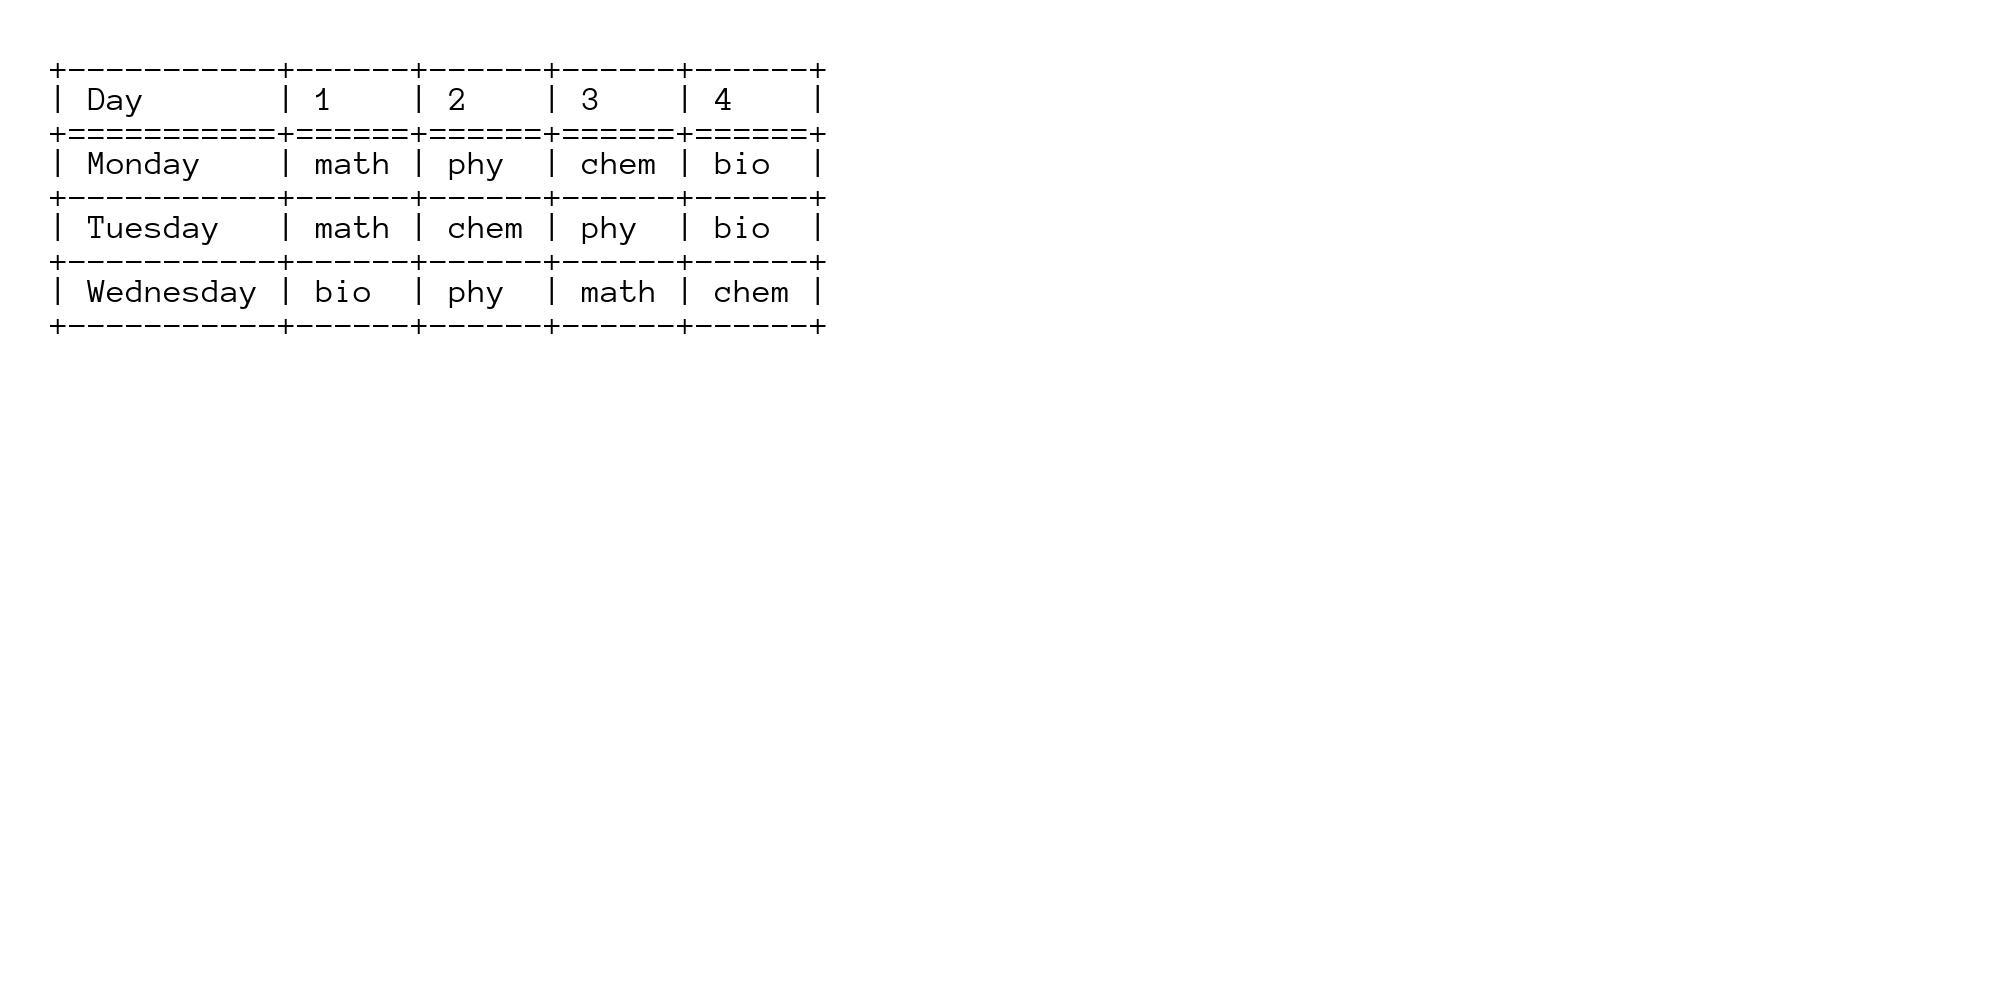
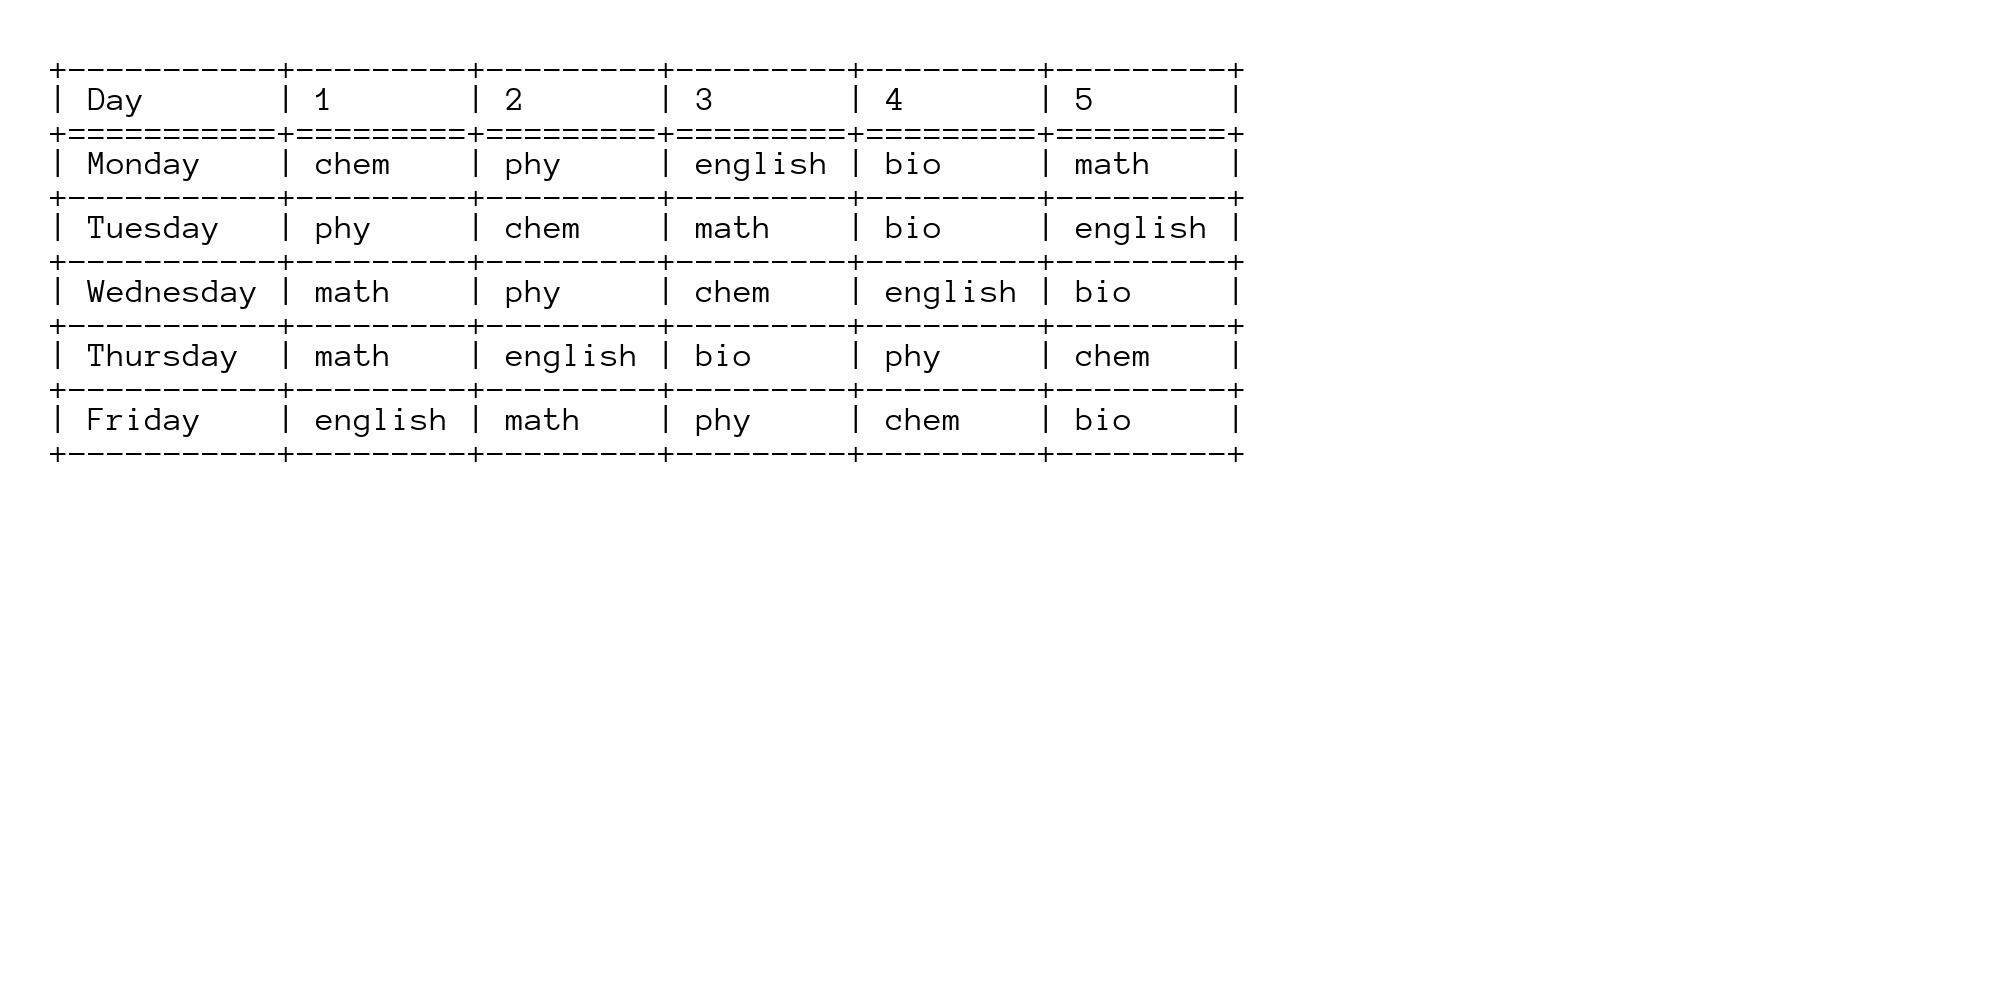
download button and use of files

diff --git a/FrontEnd SohanEdit.py b/FrontEnd SohanEdit.py
@@ -1,6 +1,11 @@
-from tkinter import * #importing tkinter
+from ctypes import alignment
+from tkinter import *
+from turtle import right #importing tkinter
 from PIL import ImageTk, Image
+from numpy import left_shift
 from timetable import timetable_main as tt
+from subjects_file import enter, export
+from download import download_button
 
 #root window
 root = Tk()
@@ -17,9 +22,12 @@ def display_timetable(): #function to open a pop-up window
     pop_up.grid
 
     days = int(daysEntry.get())     # sohan added
-    periods = int(periodsEntry.get())
+    #periods = int(periodsEntry.get())
     subjects = (subjectsEntry.get()).split(',')
-    tt(days,periods,subjects)
+    enter(subjects)
+    subjects_retrieved = export()
+    periods = len(subjects_retrieved)
+    tt(days,periods,subjects_retrieved)
 
     global timetable_img
     timetable_img = ImageTk.PhotoImage(Image.open("tt-new.jpg"))
@@ -30,37 +38,41 @@ def display_timetable(): #function to open a pop-up window
 #Labels and all that, 'na mean?
 daysLabel = Label(root, text = 'Enter number of days')
 
-periodsLabel = Label(root, text = 'Enter number of periods per day')
+#periodsLabel = Label(root, text = 'Enter number of periods per day')
 
 subjectsLabel = Label(root, text = 'Enter the subjects seperated by a comma') # sohan added
 
 #Buttons
 generate = Button(root, text = 'Generate Timetable', bg = 'green', fg = 'white', command = display_timetable)
 
-quit = Button(root, text = 'QUIT', bg = 'red', fg = 'white', command = root.destroy)
+download = Button(root, text = 'Download TimeTable to Desktop', bg = 'green', fg = 'white', command = download_button)
+
+quit = Button(root, text = 'QUIT', bg = 'red', fg = 'white', command = root.destroy )
 
 #taking input 
 daysEntry = Entry(root, text = 'Enter number of days', width = 12, fg = 'black', bg = 'grey', bd = 5)
 
-periodsEntry = Entry(root, text = 'Enter number of periods per day', width = 12, fg = 'black', bg = 'grey', bd = 5)
+#periodsEntry = Entry(root, text = 'Enter number of periods per day', width = 12, fg = 'black', bg = 'grey', bd = 5)
 
 subjectsEntry = Entry(root, text = 'Enter the subjects seperated by a comma', width = 12, fg = 'black', bg = 'grey', bd = 5) # sohan added
 
 #formatting the page
 daysLabel.grid(row = 0, column = 0)
 
-daysEntry.grid(row = 0, column = 1, padx = 10, pady = 10, columnspan = 2)
+daysEntry.grid(row = 0, column = 1, padx = 35, pady = 10, columnspan = 3)
 
-periodsLabel.grid(row = 1, column = 0)
+#periodsLabel.grid(row = 1, column = 0)
 
-periodsEntry.grid(row = 1, column = 1, padx = 10, pady = 10, columnspan = 2)
+#periodsEntry.grid(row = 1, column = 1, padx = 10, pady = 10, columnspan = 2)
 
-subjectsLabel.grid(row = 2, column = 0)
+subjectsLabel.grid(row = 1, column = 0)
 
-subjectsEntry.grid(row = 2, column = 1, padx = 10, pady = 10, columnspan = 2)
+subjectsEntry.grid(row = 1, column = 1, padx = 35, pady = 10, columnspan = 3)
 
-generate.grid(row = 3, column = 0, padx = 20, pady = 10, columnspan = 1)
+generate.grid(row = 2, column = 0, padx = 20, pady = 10, columnspan = 1)
 
-quit.grid(row = 3, column = 1, padx = 20, pady = 20, columnspan = 1)
+download.grid(row = 2, column = 1, padx = 20, pady = 20, columnspan = 1)
+
+quit.grid(row = 3, column = 1, padx = 20, pady = 20, columnspan = 2)
 
 root.mainloop()

diff --git a/FrontEnd.py b/FrontEnd.py
@@ -9,8 +9,6 @@ root.configure(bg = 'black')
 #root.iconbitmap("nameoffile.ico")
 #root.attributes('-fullscreen', True)
 
-#timetable_img = ImageTk.PhotoImage(Image.open("pjr_ded.jpg"))
-
 #functions
 def display_timetable(): #function to open a pop-up window
     global timetable_img
@@ -19,7 +17,6 @@ def display_timetable(): #function to open a pop-up window
     pop_up.title('Timetable Generator')
     pop_up.configure(bg = 'black')
     pop_up.grid
-    #timetable_img = ImageTk.PhotoImage(Image.open("pjr_ded.jpg"))
     image_label = Label(pop_up, image = timetable_img)
     image_label.grid(row = 0, column = 0)
 

diff --git a/subjects_file.py b/subjects_file.py
@@ -1,0 +1,16 @@
+import csv
+
+def enter(subs):
+    f = open("subjects_file.csv","w")
+    w = csv.writer(f)
+    w.writerow(subs)
+    f.close()
+
+def export():
+    f = open("subjects_file.csv","r")
+    r = csv.reader(f)
+    subs = []
+    for i in r:
+        for j in i:
+            subs.append(j)
+    return subs

diff --git a/download.py b/download.py
@@ -1,0 +1,12 @@
+from PIL import Image
+import os.path
+
+def download_button():
+    img = Image.open("tt-new.jpg")
+
+    file_name = "timetable.jpg"
+    complete_name = os.path.join(os.path.expanduser('~'),'Desktop', file_name)
+
+    img.save(complete_name)
+
+download_button()
